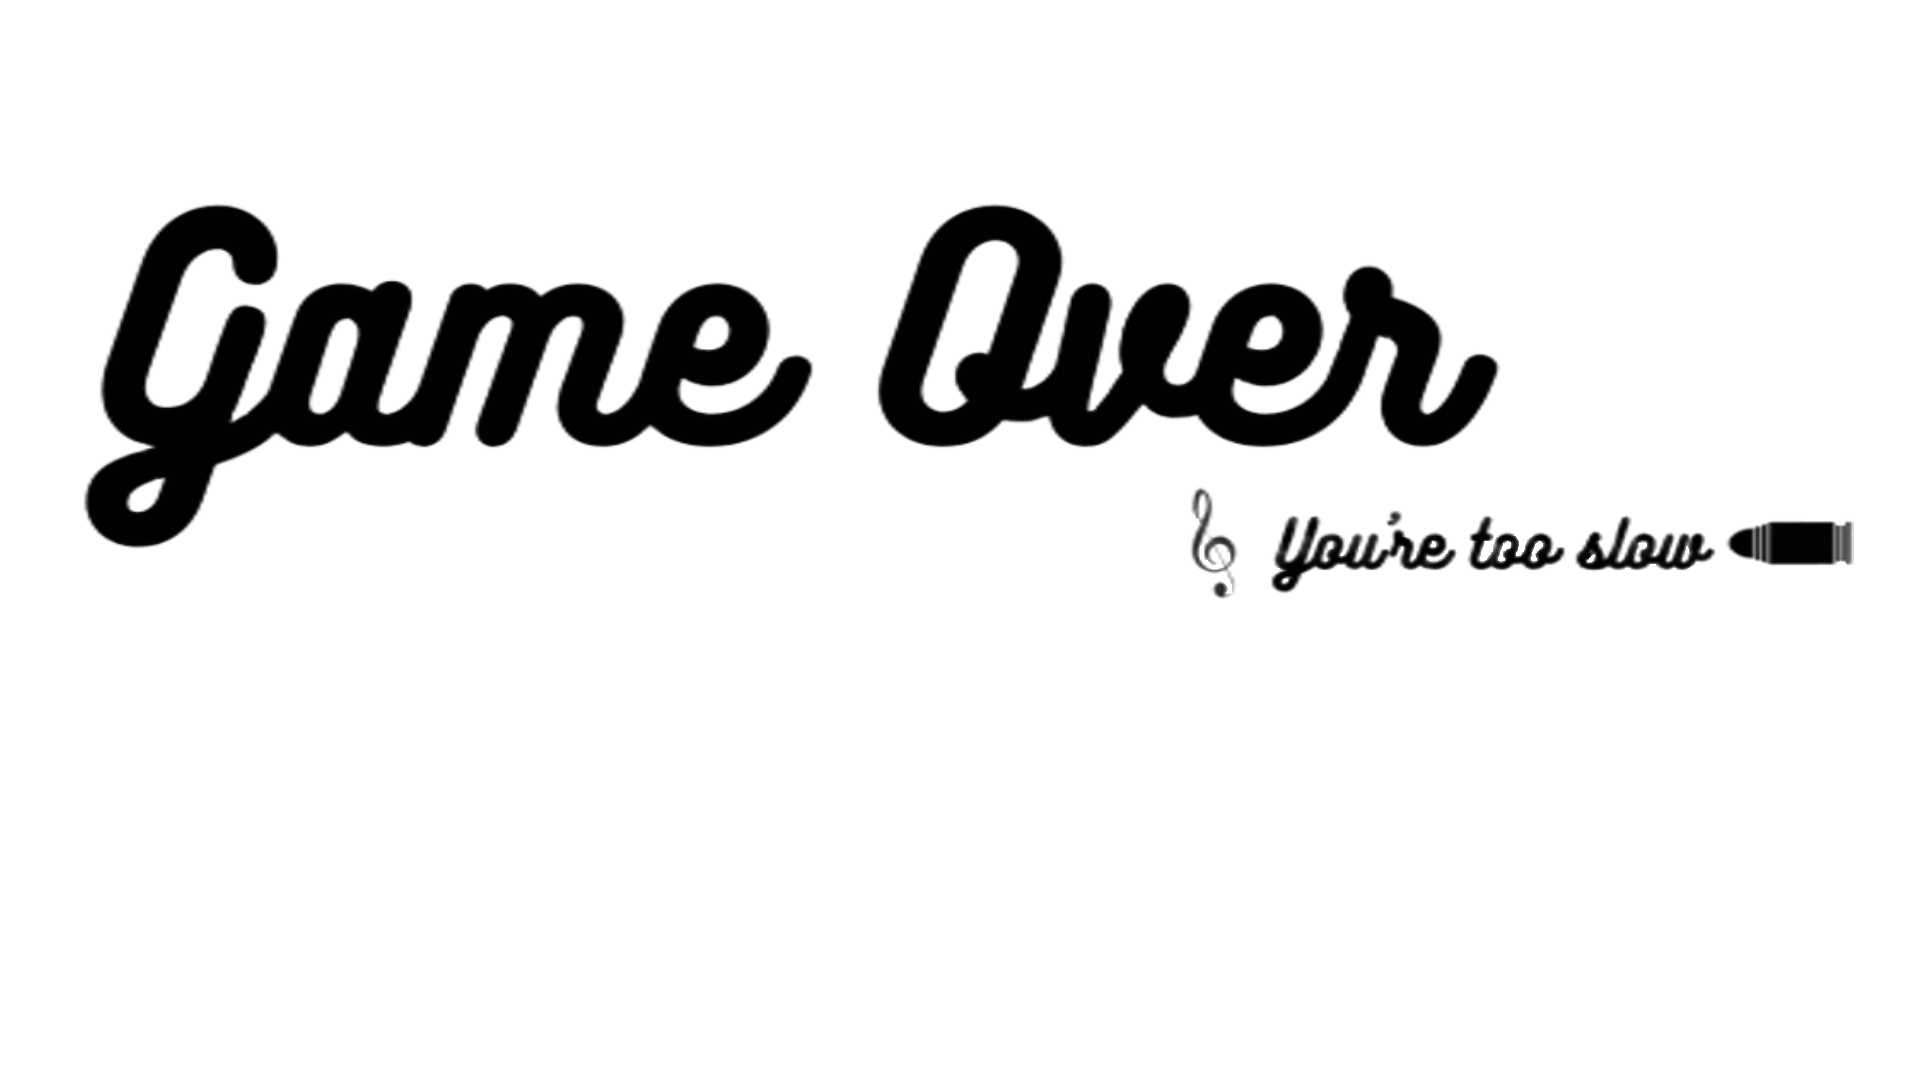
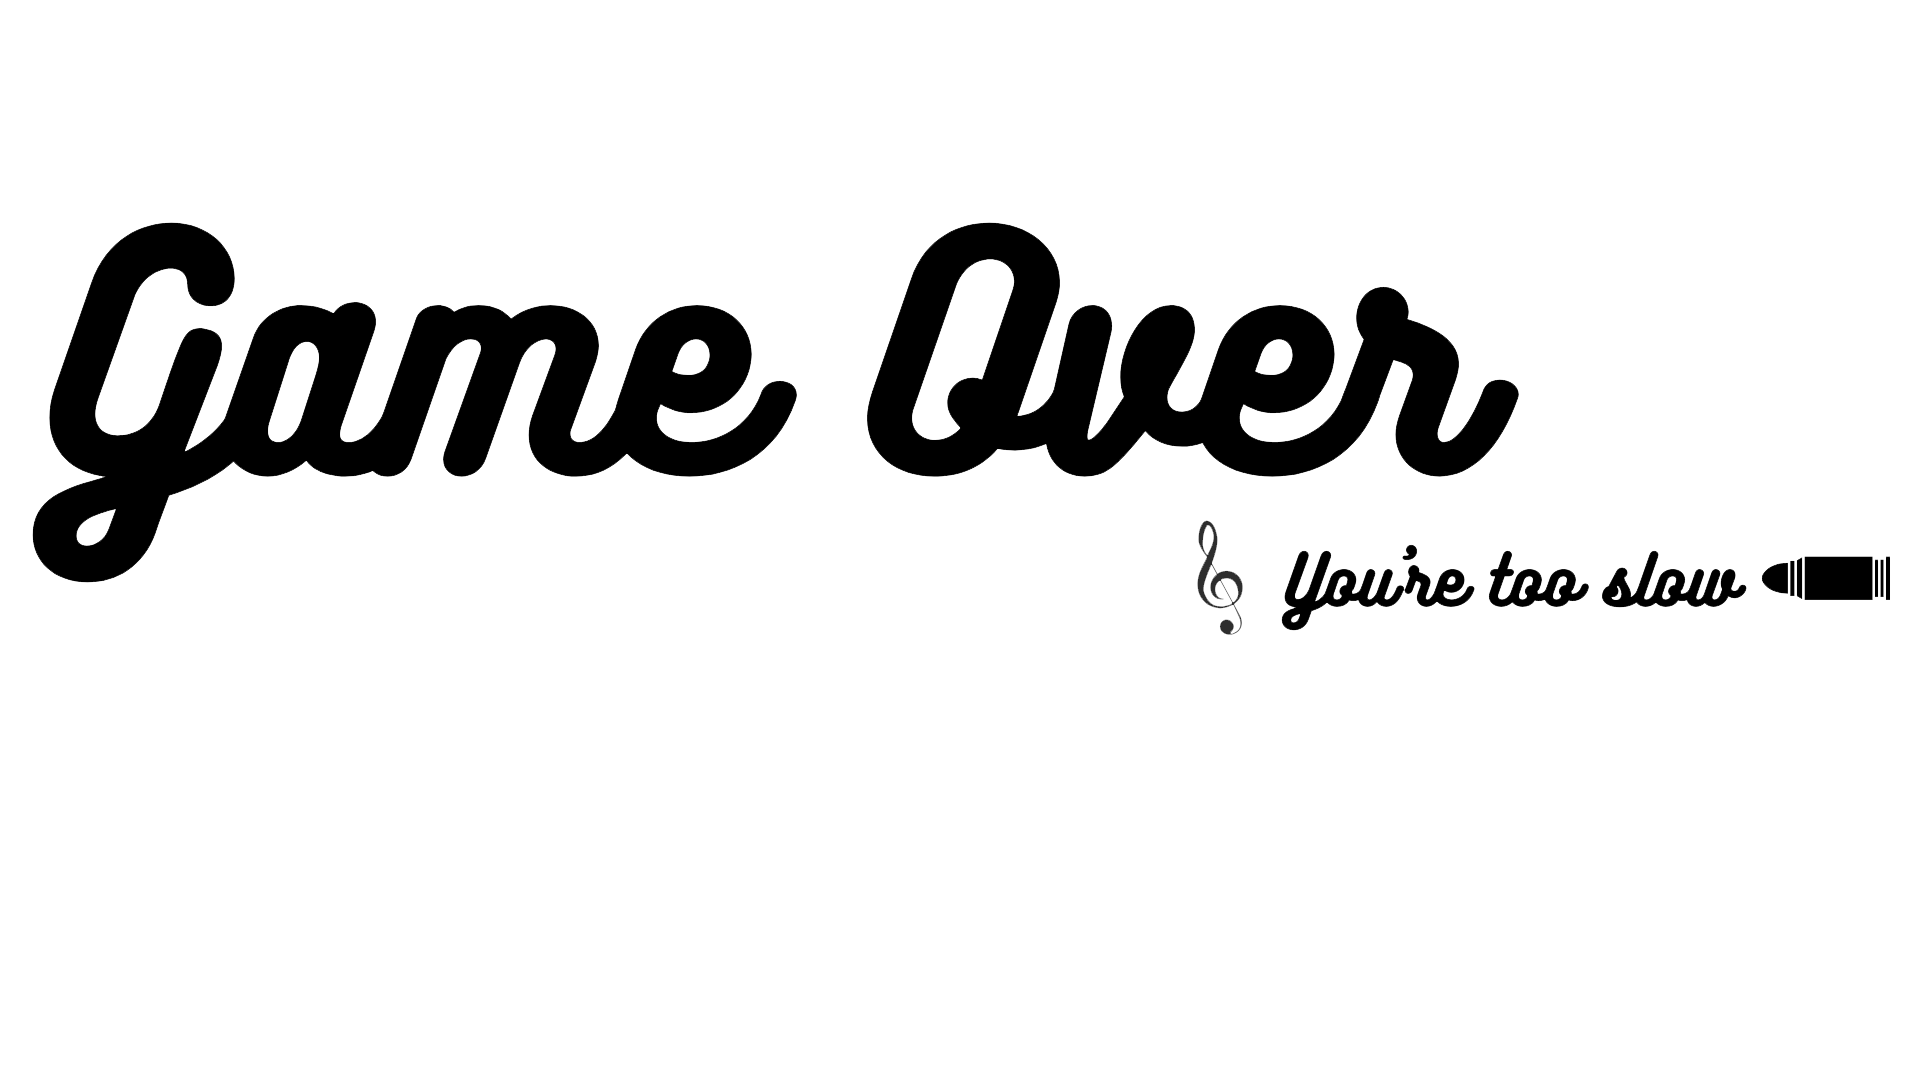
Tiffanyxd

Changed region(s): [[0.0, 0.1833, 1.0, 0.5806]]

diff --git a/Assets/Scripts/WeaponController.cs b/Assets/Scripts/WeaponController.cs
@@ -22,17 +22,13 @@ public class WeaponController : MonoBehaviour
 
     void Update()
     {
-        // --- ESTA ES LA MEJORA ---
-        // Si el juego está en pausa (paneles activos), no disparamos ni detectamos impacto
         if (Time.timeScale == 0) return;
-        // -------------------------
 
         if (Input.GetButtonDown("Fire1"))
         {
             Disparar();
         }
 
-        // También movemos la detección de impacto aquí para que respete la pausa
         if (Input.GetMouseButtonDown(0)) DetectarImpacto();
     }
 
@@ -47,26 +43,27 @@ public class WeaponController : MonoBehaviour
         if (Physics.Raycast(ray, out hit, maxDistance))
         {
             Transform root = hit.collider.transform.root;
+
             if (root.CompareTag("Target"))
             {
                 Enemy enemy = root.GetComponent<Enemy>();
                 if (enemy != null)
                 {
                     float timeSinceSpawn = Time.time - enemy.spawnTime;
-
-                    if (timeSinceSpawn <= perfectLimit)
-                    {
-                        GameEvents.OnPerfect?.Invoke();
-                    }
-                    else
-                    {
-                        GameEvents.OnGood?.Invoke();
-                    }
+                    if (timeSinceSpawn <= perfectLimit) GameEvents.OnPerfect?.Invoke();
+                    else GameEvents.OnGood?.Invoke();
 
                     GameEvents.OnHit?.Invoke();
                     Destroy(root.gameObject);
                 }
             }
+            
+            else if (root.CompareTag("Tiffany"))
+            {
+                GameEvents.OnEasterEgg?.Invoke();
+                
+            }
+           
             else
             {
                 GameEvents.OnMiss?.Invoke();
@@ -87,9 +84,6 @@ public class WeaponController : MonoBehaviour
 
     void Disparar()
     {
-        if (animatorArma != null)
-        {
-            animatorArma.SetTrigger("ShootTrigg");
-        }
+        if (animatorArma != null) animatorArma.SetTrigger("ShootTrigg");
     }
 }

diff --git a/Assets/Scripts/TimingText.cs b/Assets/Scripts/TimingText.cs
@@ -2,9 +2,9 @@ using UnityEngine;
 using TMPro;
 using System.Collections;
 
-public class TimingUI : MonoBehaviour
+public class TimingText : MonoBehaviour
 {
-    public TextMeshProUGUI text;  
+    public TextMeshProUGUI text;
     public float duration = 0.5f;
 
     void OnEnable()
@@ -12,6 +12,7 @@ public class TimingUI : MonoBehaviour
         GameEvents.OnPerfect += OnPerfect;
         GameEvents.OnGood += OnGood;
         GameEvents.OnMiss += OnMiss;
+        GameEvents.OnEasterEgg += OnEasterEgg; 
     }
 
     void OnDisable()
@@ -19,11 +20,15 @@ public class TimingUI : MonoBehaviour
         GameEvents.OnPerfect -= OnPerfect;
         GameEvents.OnGood -= OnGood;
         GameEvents.OnMiss -= OnMiss;
+        GameEvents.OnEasterEgg -= OnEasterEgg; 
     }
 
     void OnPerfect() => Show("PERFECT", Color.green);
     void OnGood() => Show("GOOD", Color.yellow);
     void OnMiss() => Show("MISS", Color.red);
+
+    
+    void OnEasterEgg() => Show("Did You Shoot Tiffany?", new Color(1f, 0.4f, 0.7f)); 
 
     void Show(string msg, Color color)
     {

diff --git a/Assets/Scripts/GameEvents.cs b/Assets/Scripts/GameEvents.cs
@@ -6,4 +6,5 @@ public static class GameEvents
     public static Action OnGood;
     public static Action OnMiss;
     public static Action OnHit;
+    public static System.Action OnEasterEgg;
 }
